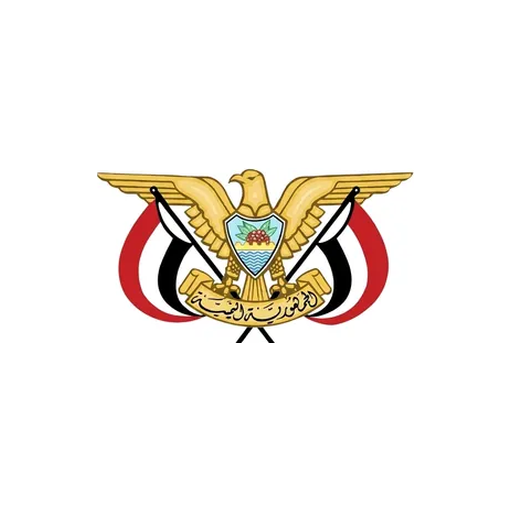
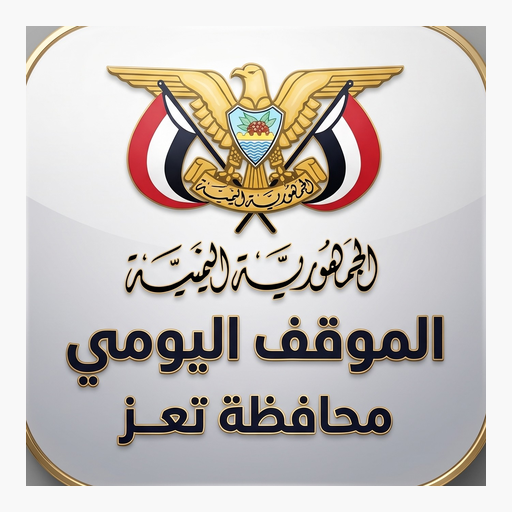
Add files via upload

diff --git a/index.html b/index.html
@@ -7,8 +7,8 @@
 <meta name="theme-color" content="#13233F">
 <meta name="description" content="الموقف اليومي لمحافظة تعز، الغرفة الإعلامية الموحدة">
 <link rel="manifest" href="manifest.webmanifest">
-<link rel="icon" href="icon-192.png">
-<link rel="apple-touch-icon" href="icon-192.png">
+<link rel="icon" href="icon-192.png?v=2">
+<link rel="apple-touch-icon" href="icon-192.png?v=2">
 <style>
 html,body{margin:0;height:100%;background:#fff;overflow:hidden}
 iframe{position:fixed;inset:0;width:100%;height:100%;border:0;background:#fff}

diff --git a/sw.js b/sw.js
@@ -1,4 +1,4 @@
-const C='mq-shell-v2';
+const C='mq-shell-v3';
 const FILES=['./','index.html','manifest.webmanifest','icon-192.png','icon-512.png','splash-logo.png'];
 self.addEventListener('install',e=>{e.waitUntil(caches.open(C).then(c=>c.addAll(FILES)));self.skipWaiting();});
 self.addEventListener('activate',e=>{e.waitUntil(caches.keys().then(k=>Promise.all(k.filter(x=>x!==C).map(x=>caches.delete(x)))));self.clients.claim();});
